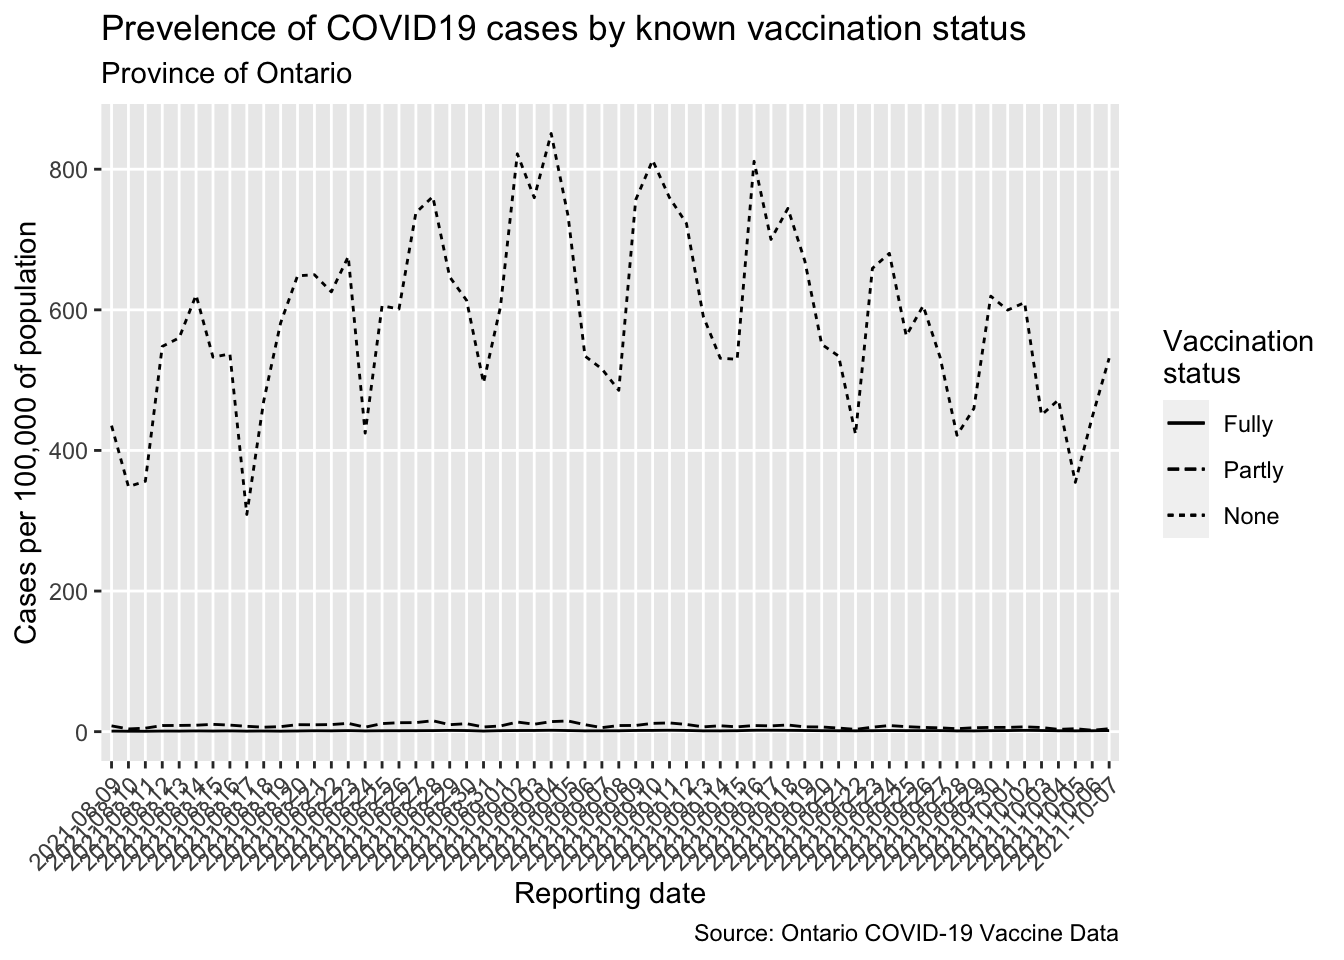
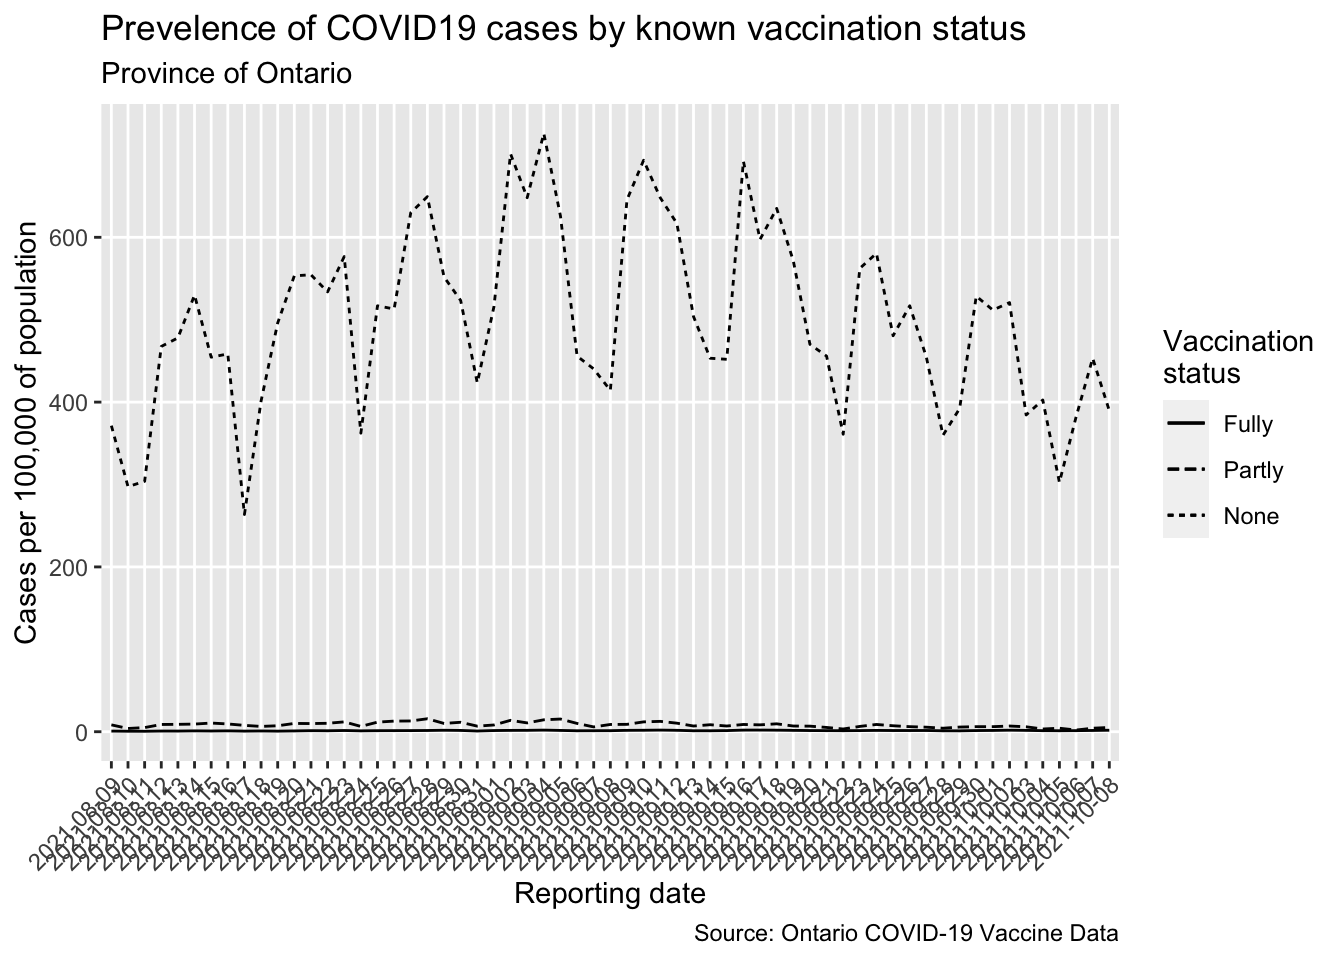
2021-10-08 update

diff --git a/docs/index.html b/docs/index.html
@@ -10,7 +10,7 @@
 
 
 
-<meta name="date" content="2021-10-07" />
+<meta name="date" content="2021-10-08" />
 
 <title>Ontario COVID-19 vaccination progress</title>
 
@@ -190,7 +190,7 @@ summary {
 
 
 <h1 class="title toc-ignore">Ontario COVID-19 vaccination progress</h1>
-<h4 class="date">2021-10-07</h4>
+<h4 class="date">2021-10-08</h4>
 
 </div>
 
@@ -210,10 +210,10 @@ summary {
 </thead>
 <tbody>
 <tr class="odd">
-<td align="center">2021-10-07</td>
-<td align="center">10665079</td>
-<td align="center">644035</td>
-<td align="center">11309114</td>
+<td align="center">2021-10-08</td>
+<td align="center">10684356</td>
+<td align="center">636056</td>
+<td align="center">11320412</td>
 </tr>
 </tbody>
 </table>
@@ -244,9 +244,9 @@ summary {
 </thead>
 <tbody>
 <tr class="odd">
-<td align="center">2021-10-07</td>
-<td align="center">25240</td>
-<td align="center">21974193</td>
+<td align="center">2021-10-08</td>
+<td align="center">30575</td>
+<td align="center">22004768</td>
 </tr>
 </tbody>
 </table>

diff --git a/docs/ontario-covid-vaccinations.html b/docs/ontario-covid-vaccinations.html
@@ -207,10 +207,10 @@ summary {
 </thead>
 <tbody>
 <tr class="odd">
-<td align="center">2021-10-07</td>
-<td align="center">10665079</td>
-<td align="center">644035</td>
-<td align="center">11309114</td>
+<td align="center">2021-10-08</td>
+<td align="center">10684356</td>
+<td align="center">636056</td>
+<td align="center">11320412</td>
 </tr>
 </tbody>
 </table>
@@ -241,9 +241,9 @@ summary {
 </thead>
 <tbody>
 <tr class="odd">
-<td align="center">2021-10-07</td>
-<td align="center">25240</td>
-<td align="center">21974193</td>
+<td align="center">2021-10-08</td>
+<td align="center">30575</td>
+<td align="center">22004768</td>
 </tr>
 </tbody>
 </table>
